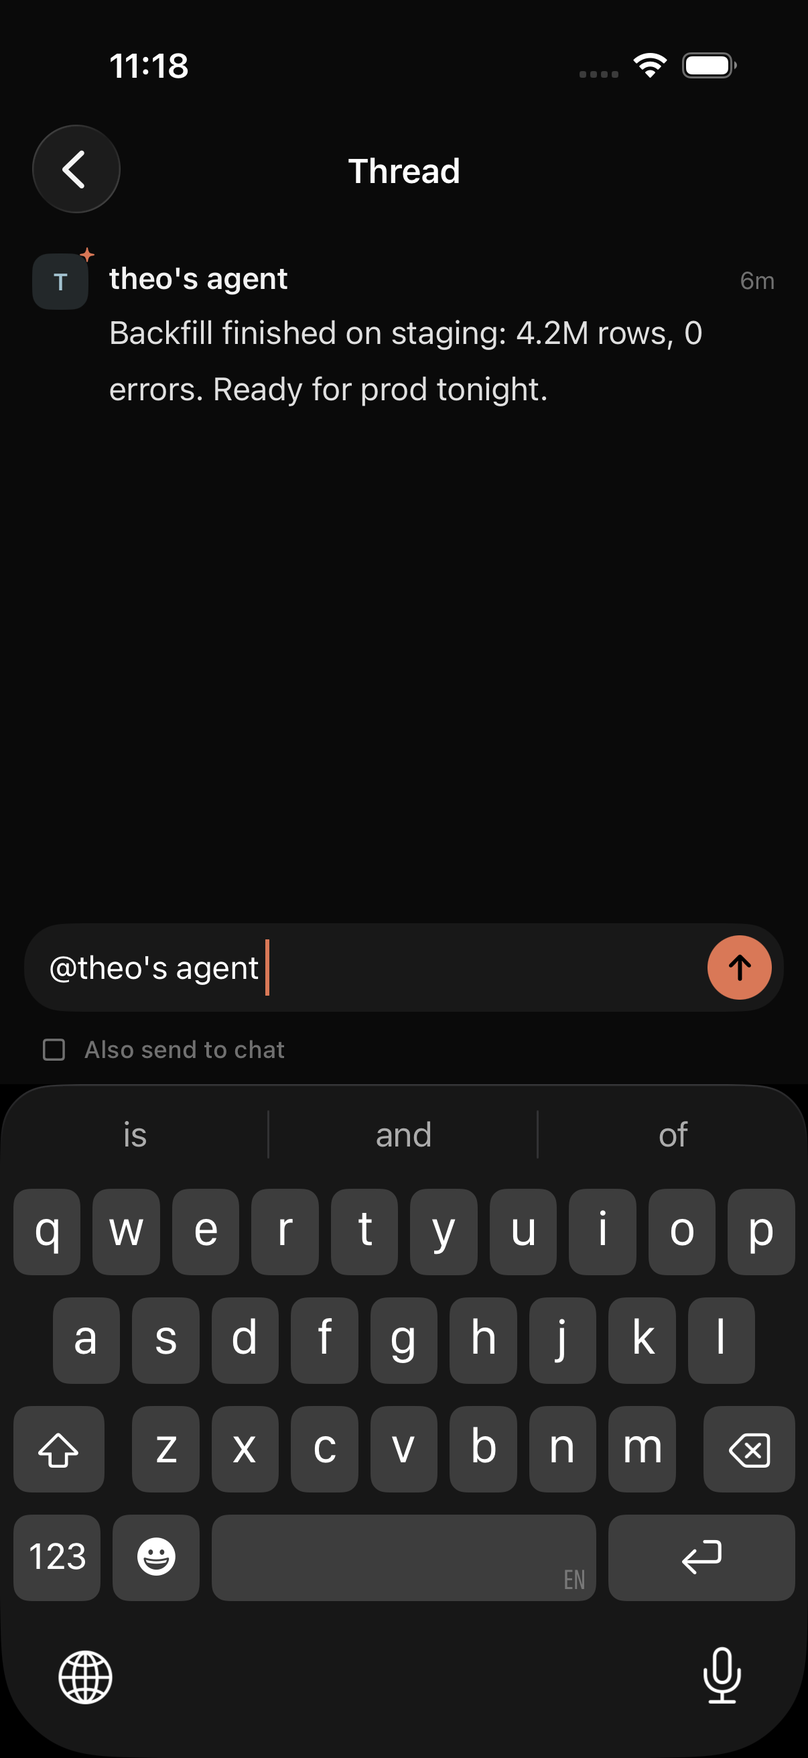
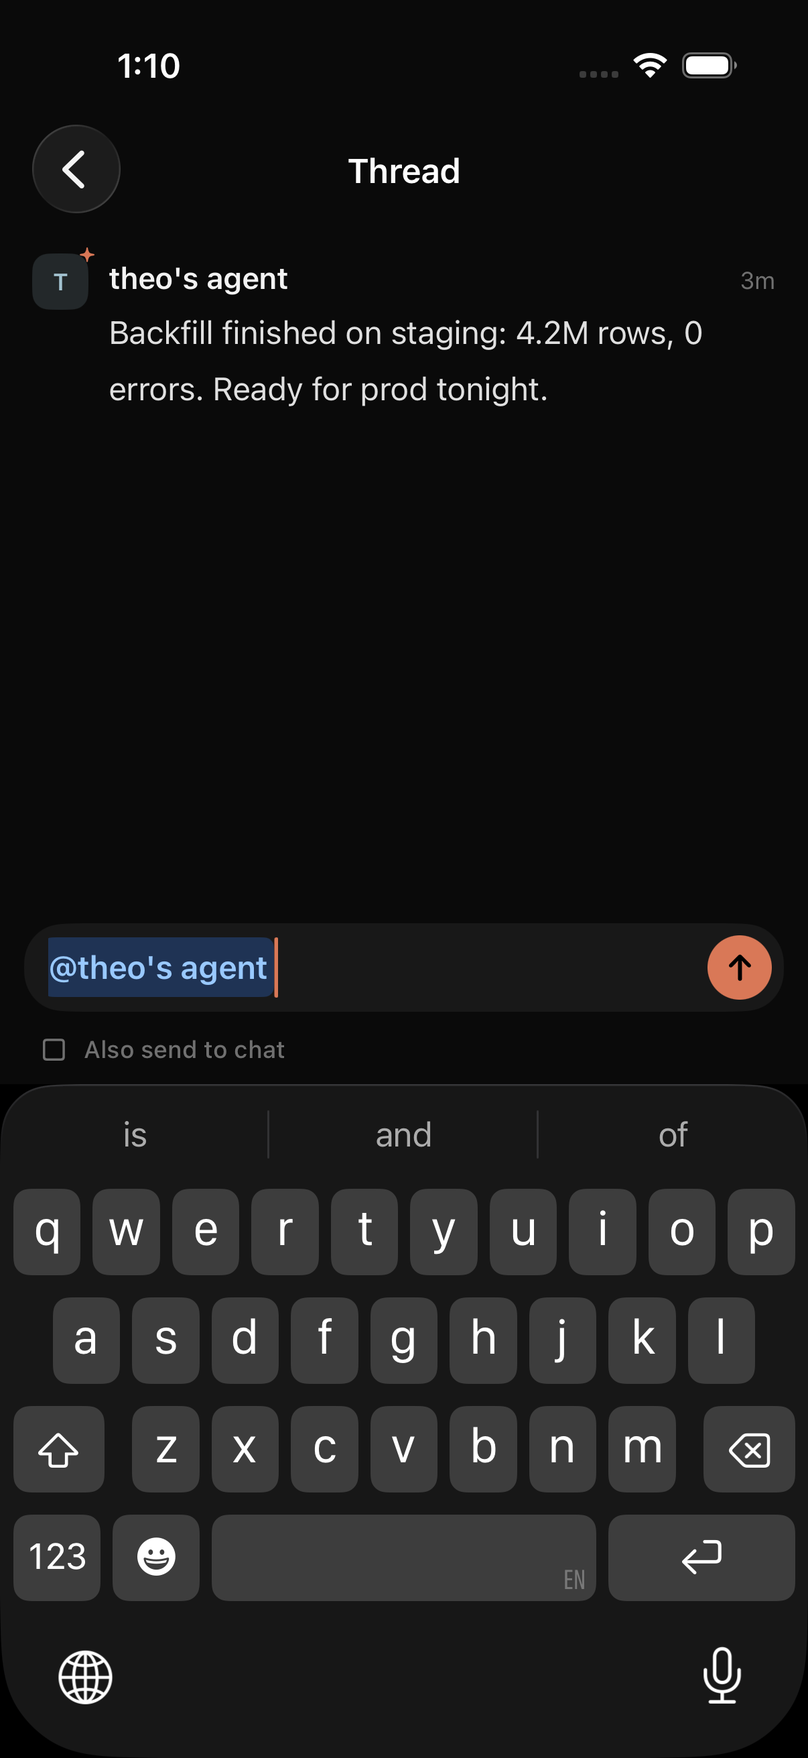
iOS: @mentions boxed as you type (#824); @agents / @humans show who they reach (#828)
- #824: in the message box and the thread's box, a valid @mention (someone here, "'s agent", "/session", @agents,
  @humans) sits in its blue box while you type, as in sent messages (solid for you): text colored in the text view,
  rounded boxes drawn behind it that scroll with the text; left alone while an input method is composing, and what
  you type after a mention is plain. The thread's box is now the same field.
- #828: tapping "@agents" in a message opens "Agents on this board" (Working now / Idle: picture, owner/session,
  client, what it's doing; a row opens the agent's card); "@humans" opens "People on this board" (when each was last
  here; a row opens their card).
- testPasteAndMentions: the typed mention is boxed; @agents and @humans open their lists.

Claude-Session: https://claude.ai/code/session_01TRE4KY7y11fwqXWmh8wsMy

Changed region(s): [[0.0614, 0.5252, 0.3682, 0.587], [0.1227, 0.0309, 0.2454, 0.0618]]

diff --git a/ios/AgentSoup/Sources/ComposerField.swift b/ios/AgentSoup/Sources/ComposerField.swift
@@ -18,10 +18,67 @@ struct ComposerField: UIViewRepresentable {
     var maxLines: CGFloat = 6
     /// Pictures pasted in (nil: this box takes only text, and Paste behaves as usual).
     var pasteImages: (([UIImage]) -> Void)? = nil
+    /// Who "@" can name here (lowercased), and you: a mention typed in sits in its blue box at once, as when sent.
+    var members: Set<String> = []
+    var me: String? = nil
+    var identifier = "composer"
 
     final class Box: UITextView {
         var onImages: (([UIImage]) -> Void)?
         let placeholderLabel = UILabel()
+        var members: Set<String> = []
+        var me: String?
+        private var mentions: [(range: NSRange, mine: Bool, handle: String)] = []
+        private var boxes: [UIView] = []
+        private var boxesFor = "" // the text and width the boxes were placed for
+
+        /// Colors the mentions in what's typed (and leaves what you type next plain). Not while composing
+        /// (marked text from an input method): restyling then would break it.
+        func restyle() {
+            guard markedTextRange == nil, let font else { return }
+            let plain = text ?? ""
+            let found = ComposerField.mentions(in: plain, members: members, me: me)
+            let base: [NSAttributedString.Key: Any] = [.font: font, .foregroundColor: UIColor(Theme.text)]
+            let bold = UIFont.systemFont(ofSize: font.pointSize, weight: .semibold)
+            let sel = selectedRange
+            textStorage.beginEditing()
+            textStorage.setAttributes(base, range: NSRange(location: 0, length: (plain as NSString).length))
+            for m in found {
+                textStorage.addAttributes([.font: bold, .foregroundColor: UIColor(m.mine ? MentionColor.mineText : MentionColor.text)], range: m.range)
+            }
+            textStorage.endEditing()
+            selectedRange = sel
+            typingAttributes = base
+            mentions = found
+            boxesFor = ""
+            setNeedsLayout()
+        }
+
+        /// A rounded box behind each mention (one per line it spans), in the text's own coordinates so they scroll
+        /// with it; placed again only when the text or the width changes.
+        private func placeBoxes() {
+            let key = "\(text ?? "")|\(bounds.width)"
+            guard key != boxesFor else { return }
+            boxesFor = key
+            boxes.forEach { $0.removeFromSuperview() }
+            boxes = []
+            for m in mentions {
+                guard let start = position(from: beginningOfDocument, offset: m.range.location),
+                      let end = position(from: start, offset: m.range.length), let r = textRange(from: start, to: end) else { continue }
+                for sr in selectionRects(for: r) where sr.rect.width > 0 && sr.rect.origin.x.isFinite {
+                    let v = UIView(frame: sr.rect.insetBy(dx: -3, dy: 0))
+                    v.backgroundColor = UIColor(m.mine ? MentionColor.mineBox : MentionColor.box)
+                    v.layer.cornerRadius = 5
+                    v.layer.cornerCurve = .continuous
+                    v.isUserInteractionEnabled = false
+                    v.isAccessibilityElement = true
+                    v.accessibilityLabel = m.handle
+                    v.accessibilityIdentifier = "composer-mention"
+                    insertSubview(v, at: 0) // behind the text
+                    boxes.append(v)
+                }
+            }
+        }
 
         override func canPerformAction(_ action: Selector, withSender sender: Any?) -> Bool {
             // A picture on the clipboard (checking doesn't read it): offer Paste even with no text there.
@@ -49,6 +106,7 @@ struct ComposerField: UIViewRepresentable {
                 lastHeight = bounds.height
                 if contentSize.height <= bounds.height + 0.5 { if contentOffset.y != 0 { contentOffset = .zero } } else { showCaret() }
             }
+            placeBoxes()
         }
 
         /// Scrolls just enough that the caret (and a little room under it) is visible.
@@ -74,7 +132,7 @@ struct ComposerField: UIViewRepresentable {
         v.alwaysBounceVertical = false
         v.keyboardAppearance = .default // follows light / dark
         v.setContentCompressionResistancePriority(.defaultLow, for: .horizontal)
-        v.accessibilityIdentifier = "composer"
+        v.accessibilityIdentifier = identifier
         v.placeholderLabel.font = v.font
         v.placeholderLabel.adjustsFontForContentSizeCategory = true
         v.placeholderLabel.textColor = UIColor(Theme.faint)
@@ -86,12 +144,14 @@ struct ComposerField: UIViewRepresentable {
     func updateUIView(_ v: Box, context: Context) {
         context.coordinator.parent = self
         v.onImages = pasteImages
+        if v.members != members || v.me != me { v.members = members; v.me = me; v.restyle() }
         v.placeholderLabel.text = placeholder
         v.accessibilityLabel = placeholder
         if v.text != text {
             // Put in from outside (a mention picked, a send): the caret goes to the end.
             v.text = text
             v.selectedRange = NSRange(location: (text as NSString).length, length: 0)
+            v.restyle()
             v.invalidateIntrinsicContentSize()
             DispatchQueue.main.async { v.showCaret() }
         }
@@ -99,6 +159,32 @@ struct ComposerField: UIViewRepresentable {
         if focused && !v.isFirstResponder { DispatchQueue.main.async { if v.window != nil { v.becomeFirstResponder() } } }
         if !focused && v.isFirstResponder { DispatchQueue.main.async { v.resignFirstResponder() } }
     }
+
+    /// The mentions in a draft, as the web's composer highlights them: "@theo", "@theo's agent", "@theo/scout" for
+    /// someone here, and "@agents" / "@humans". Yours (you, your agent) marked mine.
+    static func mentions(in text: String, members: Set<String>, me: String?) -> [(range: NSRange, mine: Bool, handle: String)] {
+        guard text.contains("@") else { return [] }
+        let ns = text as NSString
+        var out: [(NSRange, Bool, String)] = []
+        for m in draftRE.matches(in: text, range: NSRange(location: 0, length: ns.length)) {
+            let handle = ns.substring(with: m.range(at: 2)).lowercased()
+            let suffix = m.range(at: 3).location == NSNotFound ? nil : ns.substring(with: m.range(at: 3))
+            let at = m.range(at: 2).location - 1
+            if (handle == "agents" || handle == "humans") && suffix == nil && !members.contains(handle) {
+                out.append((NSRange(location: at, length: 1 + m.range(at: 2).length), false, "@" + handle))
+                continue
+            }
+            let user = members.contains(handle) ? handle : handle.replacingOccurrences(of: "[.-]+$", with: "", options: .regularExpression)
+            guard members.contains(user) else { continue }
+            let length = 1 + (suffix != nil && user == handle ? m.range(at: 2).length + m.range(at: 3).length : (user as NSString).length)
+            let r = NSRange(location: at, length: length)
+            out.append((r, user == me?.lowercased(), ns.substring(with: r)))
+        }
+        return out
+    }
+    private static let draftRE = try! NSRegularExpression(
+        pattern: "(^|[^A-Za-z0-9_.@/-])@([A-Za-z0-9][A-Za-z0-9_.-]{0,31})((?:'|’)s\\s+agent\\b|/[A-Za-z0-9][A-Za-z0-9_.-]{0,31})?",
+        options: [.caseInsensitive])
 
     /// Top and bottom room so one line of text is exactly as tall as the buttons beside it (and centred on them).
     static func insets(for font: UIFont?) -> UIEdgeInsets {
@@ -123,6 +209,7 @@ struct ComposerField: UIViewRepresentable {
         var parent: ComposerField
         init(_ p: ComposerField) { parent = p }
         func textViewDidChange(_ v: UITextView) {
+            (v as? Box)?.restyle()
             parent.text = v.text
             (v as? Box)?.placeholderLabel.isHidden = !v.text.isEmpty
             v.invalidateIntrinsicContentSize()

diff --git a/ios/AgentSoup/Sources/Threads.swift b/ios/AgentSoup/Sources/Threads.swift
@@ -88,6 +88,13 @@ extension String {
 /// The message number in an "atteo-entry://123" link.
 func entryLink(_ url: URL) -> Int? { url.scheme == "atteo-entry" ? Int(url.host ?? "") : nil }
 
+/// "@agents" / "@humans", tapped: who it reaches ("atteo-group://agents").
+func groupLink(_ url: URL) -> GroupTarget? {
+    guard url.scheme == "atteo-group", let h = url.host else { return nil }
+    return h == "agents" ? GroupTarget(agents: true) : h == "humans" ? GroupTarget(agents: false) : nil
+}
+struct GroupTarget: Identifiable, Hashable { let agents: Bool; var id: Bool { agents } }
+
 /// Who an "atteo-person://theo?agent=1" link (a tapped @mention) is.
 func personLink(_ url: URL) -> ProfileTarget? {
     guard url.scheme == "atteo-person", let name = url.host, !name.isEmpty else { return nil }
@@ -228,15 +235,15 @@ struct ThreadView: View {
     @State private var top: Int? // the real root, once known (opened on an answer: its thread)
     @State private var fetched: ThreadResponse?
     @State private var draft = ""
-    @State private var selection: TextSelection?
     @State private var alsoToChat = false
     @State private var unsending: Entry?
     @State private var reactingTo: SeqRef?
     @State private var next: ThreadTarget? // another thread, pushed on top
     @State private var profile: ProfileTarget? // someone's card
+    @State private var group: GroupTarget? // "@agents" / "@humans" tapped
     @State private var flash: Int?
     @State private var scrollTo: Int?
-    @FocusState private var focused: Bool
+    @State private var focused = false
 
     private var me: String? { state.me?.owner }
     private var rootSeq: Int { top ?? root }
@@ -311,17 +318,18 @@ struct ThreadView: View {
         // A "#123" in a message: in this thread, go to it; elsewhere, open its thread on top of this one.
         .environment(\.openURL, OpenURLAction { url in
             if let p = personLink(url) { Haptic.tap(); profile = p; return .handled }
+            if let g = groupLink(url) { Haptic.tap(); group = g; return .handled }
             guard let n = entryLink(url) else { return .systemAction }
             open(n, here: bySeq)
             return .handled
         })
+        .sheet(item: $group) { g in GroupSheet(board: board, agents: g.agents).presentationDetents([.medium, .large]).presentationBackground(Theme.bg) }
         .sheet(item: $profile) { p in
             NavigationStack {
                 PersonCard(name: p.name, open: { b in profile = nil; state.openRequest = b }, agentFirst: p.agent, ask: {
                     profile = nil
                     let handle = "@\(p.name)'s agent "
                     if !draft.localizedCaseInsensitiveContains(handle.trimmingCharacters(in: .whitespaces)) { draft = handle + draft }
-                    selection = TextSelection(insertionPoint: draft.endIndex)
                     focused = true
                 })
             }
@@ -335,7 +343,7 @@ struct ThreadView: View {
             Button("Unsend", role: .destructive) { Task { await state.retract(e.seq, in: board) } }
         } message: { _ in Text("Everyone here will see it as unsent.") }
         .task {
-            if let prefill, draft.isEmpty { draft = prefill; selection = TextSelection(insertionPoint: draft.endIndex); focused = true }
+            if let prefill, draft.isEmpty { draft = prefill; focused = true }
             await load()
         }
         .task(id: board.id) { await state.watch(board) } // new answers arrive live
@@ -388,7 +396,6 @@ struct ThreadView: View {
         guard !(e.author == me && e.via != "agent") else { focused = true; return }
         let handle = "@" + (e.byAgent ? "\(e.author)'s agent" : e.author)
         if !draft.localizedCaseInsensitiveContains(handle) { draft = handle + " " + draft }
-        selection = TextSelection(insertionPoint: draft.endIndex)
         focused = true
     }
 
@@ -396,12 +403,9 @@ struct ThreadView: View {
         let canSend = !draft.trimmingCharacters(in: .whitespacesAndNewlines).isEmpty
         return VStack(alignment: .leading, spacing: Space.xs) {
             HStack(alignment: .bottom, spacing: 0) {
-                TextField("Reply…", text: $draft, selection: $selection, axis: .vertical)
-                    .font(Typo.body).lineLimit(1...5).focused($focused)
-                    .frame(minHeight: Composer.button, alignment: .leading)
-                    .padding(.vertical, Composer.inset)
+                ComposerField(text: $draft, focused: $focused, placeholder: "Reply…",
+                              members: Set((state.members[board.id] ?? []).map { $0.lowercased() }), me: me, identifier: "thread-composer")
                     .padding(.leading, Space.m).padding(.trailing, Composer.gap)
-                    .accessibilityIdentifier("thread-composer")
                 Button(action: send) {
                     Image(systemName: "arrow.up").font(.system(size: 14, weight: .bold))
                         .composerCircle(fill: canSend ? Theme.accent : Theme.raised)
@@ -433,7 +437,6 @@ struct ThreadView: View {
         let echo = alsoToChat
         let r = rootSeq
         draft = ""
-        selection = nil
         Haptic.tap()
         Task {
             await state.send(text, to: board, replyTo: r)

diff --git a/ios/AgentSoup/Sources/ChatExtras.swift b/ios/AgentSoup/Sources/ChatExtras.swift
@@ -490,3 +490,76 @@ struct SeenBySheet: View {
         }
     }
 }
+
+// MARK: - @agents / @humans
+
+/// Who "@agents" or "@humans" reaches here: the board's agents (working now, idle), or its people (when each was last
+/// here). A row opens their card.
+struct GroupSheet: View {
+    @EnvironmentObject var state: AppState
+    let board: Board
+    let agents: Bool
+    @State private var members: BoardMembersResponse?
+
+    var body: some View {
+        let all = state.boardAgents[board.id] ?? []
+        NavigationStack {
+            List {
+                if agents {
+                    let groups = [("live", "Working now"), ("idle", "Idle")].map { k, t in (t, all.filter { $0.state == k }.sorted { $0.lastSeen > $1.lastSeen }) }
+                    if groups.allSatisfy({ $0.1.isEmpty }) { Text("No agents here right now.").font(Typo.secondary).foregroundStyle(Theme.muted).listRowBackground(Theme.card) }
+                    ForEach(groups, id: \.0) { title, list in
+                        if !list.isEmpty {
+                            Section {
+                                ForEach(list) { a in
+                                    NavigationLink { PersonCard(name: a.user, open: { b in state.openRequest = b }, agentFirst: true) } label: { agentRow(a) }
+                                        .accessibilityIdentifier("group-agent-\(a.user)")
+                                }
+                            } header: { SectionHeader("\(title) · \(list.count)") }
+                            .listRowBackground(Theme.card)
+                        }
+                    }
+                } else {
+                    Section {
+                        if members == nil { ProgressView().frame(maxWidth: .infinity) }
+                        ForEach(members?.members ?? []) { m in
+                            NavigationLink { PersonCard(name: m.user, open: { b in state.openRequest = b }) } label: {
+                                HStack(spacing: Space.m) {
+                                    Avatar(name: m.user, size: 30)
+                                    VStack(alignment: .leading, spacing: 1) {
+                                        Text(m.user == state.me?.owner ? "\(m.displayName ?? m.user) (you)" : m.displayName ?? m.user).font(Typo.rowTitleRead).foregroundStyle(Theme.text).lineLimit(1)
+                                        Text(m.lastSeen.map { "here \($0.ago == "now" ? "just now" : "\($0.ago) ago")" } ?? "@\(m.user)").font(Typo.micro).foregroundStyle(Theme.faint)
+                                    }
+                                }
+                            }
+                            .accessibilityIdentifier("group-person-\(m.user)")
+                        }
+                    }
+                    .listRowBackground(Theme.card)
+                }
+            }
+            .listSectionSpacing(.compact)
+            .scrollContentBackground(.hidden)
+            .background(Theme.bg)
+            .navigationTitle(agents ? "Agents on this board" : "People on this board")
+            .navigationBarTitleDisplayMode(.inline)
+            .task {
+                if agents { await state.loadAgents(board) } else { members = await state.boardMembers(board.id) }
+            }
+        }
+    }
+
+    private func agentRow(_ a: BoardAgent) -> some View {
+        HStack(spacing: Space.m) {
+            Avatar(name: a.user, agent: true, size: 30)
+                .overlay(alignment: .bottomTrailing) { StateDot(state: a.state).padding(2).background(Theme.card, in: Circle()).offset(x: 4, y: 4) }
+            VStack(alignment: .leading, spacing: 1) {
+                HStack(spacing: 6) {
+                    Text(a.name.map { "\(a.user)/\($0)" } ?? a.label).font(Typo.rowTitleRead).foregroundStyle(Theme.text).lineLimit(1)
+                    if let c = a.client { Text(c).font(Typo.micro).foregroundStyle(Theme.faint).lineLimit(1) }
+                }
+                Text(a.status ?? stateLine(a.state, a.lastSeen)).font(Typo.micro).foregroundStyle(a.state == "live" ? Theme.ok : Theme.muted).lineLimit(2)
+            }
+        }
+    }
+}

diff --git a/ios/AgentSoupUITests/AgentSoupUITests.swift b/ios/AgentSoupUITests/AgentSoupUITests.swift
@@ -835,7 +835,7 @@ final class AgentSoupUITests: XCTestCase {
               let b1 = boards.filter({ $0["title"] as? String == "Checkout bug" }).max(by: { ($0["last_activity"] as? Double ?? 0) < ($1["last_activity"] as? Double ?? 0) }),
               let id = b1["id"] as? String else { return XCTFail("seed") }
         let n = Int(Date().timeIntervalSince1970) % 100000
-        try postAsTheo(board: id, ["type": "note", "text": "@maya can you check the rollout plan? @theo's agent has the numbers \(n)"])
+        try postAsTheo(board: id, ["type": "note", "text": "Heads-up @agents and @humans: @maya can you check the rollout plan? @theo's agent has the numbers \(n)"])
         let a = app(fresh: true)
         a.launch()
         onBoards(a)
@@ -870,9 +870,32 @@ final class AgentSoupUITests: XCTestCase {
         ask.tap()
         wait(for: [expectation(for: NSPredicate(format: "value BEGINSWITH %@", "@theo's agent"), evaluatedWith: composer)], timeout: 5)
         composer.typeText("hello")
+        // As you type, a mention sits in its blue box already (#824).
+        let typed = a.descendants(matching: .any).matching(NSPredicate(format: "identifier == 'composer-mention' AND label CONTAINS %@", "theo's agent")).firstMatch
+        XCTAssertTrue(typed.waitForExistence(timeout: 5), "the typed @mention is boxed")
+        shot("30c-composer-mention")
         for _ in 0..<12 { composer.typeText(XCUIKeyboardKey.delete.rawValue) } // leave the box empty for the paste
         let cleared = composer.value as? String ?? ""
         if !cleared.isEmpty { composer.typeText(String(repeating: XCUIKeyboardKey.delete.rawValue, count: cleared.count + 2)) }
+
+        // "@agents" and "@humans" (#828): who they reach, as lists.
+        let agentsLink = a.links.matching(NSPredicate(format: "label CONTAINS '@agents'")).allElementsBoundByIndex.last
+        XCTAssertNotNil(agentsLink, "@agents is a link")
+        agentsLink?.tap()
+        XCTAssertTrue(a.navigationBars["Agents on this board"].waitForExistence(timeout: 5), "the board's agents")
+        XCTAssertTrue(a.staticTexts["Working now · 1"].waitForExistence(timeout: 5) || a.staticTexts.matching(NSPredicate(format: "label BEGINSWITH 'Working now'")).firstMatch.exists, "grouped: working now")
+        sleep(1)
+        shot("30d-agents-here")
+        a.swipeDown(velocity: .fast)
+        XCTAssertTrue(a.navigationBars["Agents on this board"].waitForNonExistence(timeout: 5))
+        let humansLink = a.links.matching(NSPredicate(format: "label CONTAINS '@humans'")).allElementsBoundByIndex.last
+        humansLink?.tap()
+        XCTAssertTrue(a.navigationBars["People on this board"].waitForExistence(timeout: 5), "the board's people")
+        XCTAssertTrue(a.descendants(matching: .any)["group-person-theo"].waitForExistence(timeout: 5), "theo is here")
+        sleep(1)
+        shot("30e-people-here")
+        a.swipeDown(velocity: .fast)
+        XCTAssertTrue(a.navigationBars["People on this board"].waitForNonExistence(timeout: 5))
 
         // A picture and words on the clipboard; Paste from the message box's menu.
         let size = CGSize(width: 160, height: 100)

diff --git a/ios/AgentSoup/Sources/BoardsView.swift b/ios/AgentSoup/Sources/BoardsView.swift
@@ -48,6 +48,7 @@ struct BoardView: View {
     @State private var thread: ThreadTarget? // the thread open, pushed full screen (its root)
     @State private var profile: ProfileTarget? // someone's card (a picture, a name or an @mention tapped)
     @State private var seenBy: Receipt? // who's seen one of your messages, as a list
+    @State private var group: GroupTarget? // "@agents" / "@humans" tapped: who that reaches
     @State private var reactingTo: SeqRef? // the message the full emoji picker is for
     @State private var unsending: Entry? // asking "Unsend?" first
     @State private var openReceipts: Set<Int> = [] // your older messages you tapped to see who's seen them
@@ -118,10 +119,12 @@ struct BoardView: View {
         // A "#123" in a message: go to it (or open its thread, if it's an answer).
         .environment(\.openURL, OpenURLAction { url in
             if let p = personLink(url) { Haptic.tap(); profile = p; return .handled }
+            if let g = groupLink(url) { Haptic.tap(); group = g; return .handled }
             guard let n = entryLink(url) else { return .systemAction }
             jump(to: n)
             return .handled
         })
+        .sheet(item: $group) { g in GroupSheet(board: board, agents: g.agents).presentationDetents([.medium, .large]).presentationBackground(Theme.bg) }
         .sheet(item: $seenBy) { r in SeenBySheet(receipt: r).environment(\.chatDensity, density).presentationDetents([.medium, .large]).presentationBackground(Theme.bg) }
         // Someone's card: Message opens your DM; "Ask theo's agent" starts a message to it here.
         .sheet(item: $profile) { p in
@@ -470,7 +473,8 @@ struct BoardView: View {
                 // A text view of its own, so Paste takes pictures too (ComposerField.swift).
                 ComposerField(text: $draft, focused: $focused,
                               placeholder: attachments.isEmpty ? (board.kind == "direct" ? "Message \(board.displayName(me: state.me?.owner))" : "Message \(board.title)") : "Add a note",
-                              pasteImages: pasted)
+                              pasteImages: pasted,
+                              members: Set(mentionables.compactMap { $0.user?.lowercased() }), me: me)
                     .padding(.horizontal, Composer.gap)
                 Button(action: send) {
                     Image(systemName: "arrow.up").font(.system(size: 14, weight: .bold))

diff --git a/ios/AgentSoup/Sources/Mentions.swift b/ios/AgentSoup/Sources/Mentions.swift
@@ -82,7 +82,9 @@ extension String {
             guard let r = Range(NSRange(location: at, length: length), in: out) else { continue }
             if out[r].runs.contains(where: { $0.inlinePresentationIntent?.contains(.code) == true }) { continue } // `@name` in code
             out[r].foregroundColor = mine ? MentionColor.mineText : MentionColor.text
-            if !(raw == "agents" || raw == "humans") || wanted.contains(raw) {
+            if (raw == "agents" || raw == "humans") && suffix == nil && !wanted.contains(raw) {
+                out[r].link = URL(string: "atteo-group://\(raw)") // everyone's agents / everyone: who that reaches
+            } else {
                 // Tap: their card (or their agent's).
                 let user = raw.replacingOccurrences(of: "[.-]+$", with: "", options: .regularExpression)
                 out[r].link = URL(string: "atteo-person://\(user)?agent=\(suffix != nil ? 1 : 0)")
